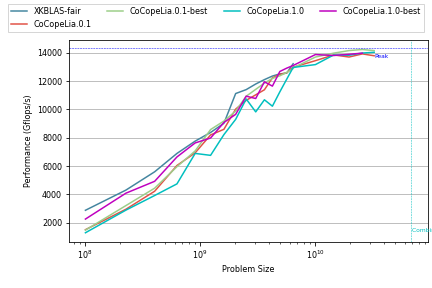
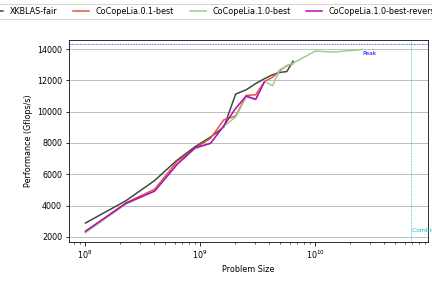
Added ki_lie,ni_lie in Subkernels( works, not tuned/checked layout)

Changed region(s): [[0.0, 0.0, 1.0, 0.8438]]

diff --git a/Library_scheduler_experimental/src/Missions/Dgemm.cpp b/Library_scheduler_experimental/src/Missions/Dgemm.cpp
@@ -67,11 +67,17 @@ Subkernel** CoCoAsignTilesToSubkernelsGemm(Asset2D<VALUE_TYPE>* A_asset, Asset2D
 #endif
 
 Subkernel** kernels = (Subkernel**) malloc(*kernelNum*sizeof(Subkernel*));
-int current_ctr = 0;
-	for (int mi = 0; mi < MGridSz; mi++)
-		for (int ni = 0 ; ni < NGridSz; ni++)
-			for (int ki = 0; ki < KGridSz; ki++){
-	      current_ctr = mi*NGridSz*KGridSz + ni*KGridSz + ki;
+int current_ctr = 0, reverseK = 0, reverseN = 0;
+	for (int mi = 0; mi < MGridSz; mi++){
+		for (int ni_lie = 0; ni_lie < NGridSz; ni_lie++){
+			int ni;
+			if(reverseN) ni = NGridSz-1 -ni_lie;
+			else ni = ni_lie;
+			for (int ki_lie = 0; ki_lie < KGridSz; ki_lie++){
+				int ki;
+				if(reverseK) ki = KGridSz-1 -ki_lie;
+				else ki = ki_lie;
+	      current_ctr = mi*NGridSz*KGridSz + ni*KGridSz + ki_lie;
 				kernels[current_ctr] = new Subkernel(3);
 				kernels[current_ctr]->TileDimlist[0] = kernels[current_ctr]->TileDimlist[1]
 				= kernels[current_ctr]->TileDimlist[2] = 2;
@@ -92,11 +98,17 @@ int current_ctr = 0;
 				ptr_ker_translate->B = NULL;
 				ptr_ker_translate->C = NULL;
 				ptr_ker_translate->alpha = initial_gemm->alpha;
-				if (ki == 0) ptr_ker_translate->beta = initial_gemm->beta;
+				if (ki_lie == 0) ptr_ker_translate->beta = initial_gemm->beta;
 				else ptr_ker_translate->beta = 1.0;
-				if (ki == KGridSz - 1) kernels[current_ctr]->writeback_master = 1;
+				if (ki_lie == KGridSz - 1) kernels[current_ctr]->writeback_master = 1;
 				else kernels[current_ctr]->writeback_master = 0;
 			}
+			if(reverseK) reverseK = 0;
+			else reverseK = 1;
+		}
+		if(reverseN) reverseN = 0;
+		else reverseN = 1;
+	}
 
 #ifdef DEBUG
 	lprintf(lvl-1, "<-----|\n");
@@ -322,7 +334,7 @@ CoControl_p CoCopeLiaDgemm(char TransA,  char TransB, size_t M, size_t N, size_t
 				cpu_timer = csecond();
 #endif
 
-				pred_p[d] = CoCoPeLiaModelOptimizeTile(model, COCOPELIA_REUSE);
+				pred_p[d] = CoCoPeLiaModelOptimizeTile(model, COCOPELIA_PIPELINE_EMULATE);
 				if (pred_p[d]->pred_t > slowest_problem_t){
 					slowest_problem_t = pred_p[d]->pred_t;
 					slowest_problem_T = pred_p[d]->T;
@@ -346,7 +358,7 @@ CoControl_p CoCopeLiaDgemm(char TransA,  char TransB, size_t M, size_t N, size_t
 				 (CoCoGetPtrLoc(B) == 0)? 0 : 1, (CoCoGetPtrLoc(C) == 0)? 0 : 1,
 				 ldA, ldB, ldC);
 
-				tunableParams_p pred_p_single_dev = CoCoPeLiaModelOptimizeTile(model, COCOPELIA_REUSE);
+				tunableParams_p pred_p_single_dev = CoCoPeLiaModelOptimizeTile(model, COCOPELIA_PIPELINE_EMULATE);
 
 #ifdef TEST
 			 cpu_timer = csecond() - cpu_timer;
@@ -483,6 +495,11 @@ CoControl_p CoCopeLiaDgemm(char TransA,  char TransB, size_t M, size_t N, size_t
 	cpu_timer = csecond() - cpu_timer;
 	lprintf(lvl, "Fire and gather pthreads for all devices -> t_exec_full = %lf ms\n", cpu_timer*1000);
 	cpu_timer = csecond();
+	if(predef_vals.T <= 0){
+		lprintf(lvl, "t_predicted for T=%zu was %lf ms : %.1lf \% error\n",
+		T, slowest_problem_t*1000,
+		(slowest_problem_t==0)? 0: (slowest_problem_t - cpu_timer )/slowest_problem_t*100);
+	}
 #endif
 
 	for(int i=0; i<used_devices;i++) CoCoPeLiaDevCacheInvalidate(thread_dev_data[i]);

diff --git a/Library_scheduler_experimental/src/DataCaching.cpp b/Library_scheduler_experimental/src/DataCaching.cpp
@@ -527,8 +527,6 @@ state CoCacheUpdateBlockState(short dev_id, int BlockIdx){
 				else prev->next = current;
 				free(free_tmp);
 			}
-
-
 		}
 	  __sync_lock_release(&globalock);
 	#ifdef DEBUG
